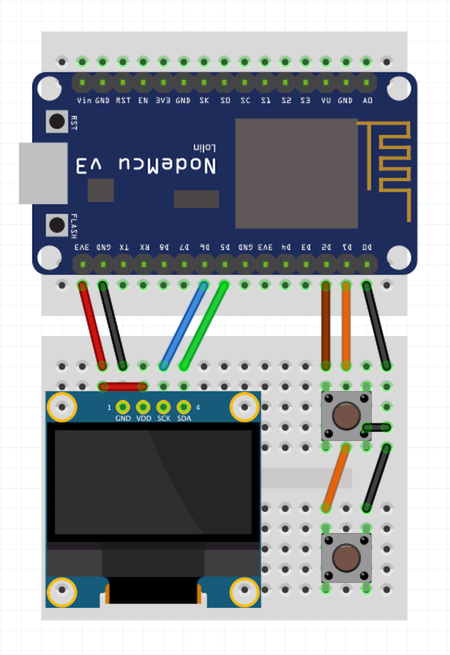
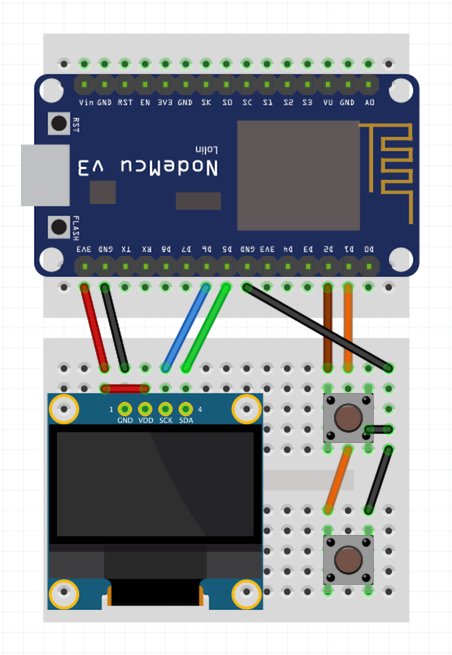
Update doc

Changed region(s): [[0.0311, 0.0611, 0.9333, 0.9466], [0.0933, 0.458, 0.1244, 0.5191]]

diff --git a/README.md b/README.md
@@ -78,8 +78,4 @@ D6          | oled scl    | iic clock
 D5          | oled sda    | iic data
 D2          | btn up      | Up / OK button
 D3          | btn down    | Down button
-D0          | btn com     | Com for buttons*
-
-*D0 is used as a ground pin for the buttons because it makes for a cleaner breadboard layout.
-
 
